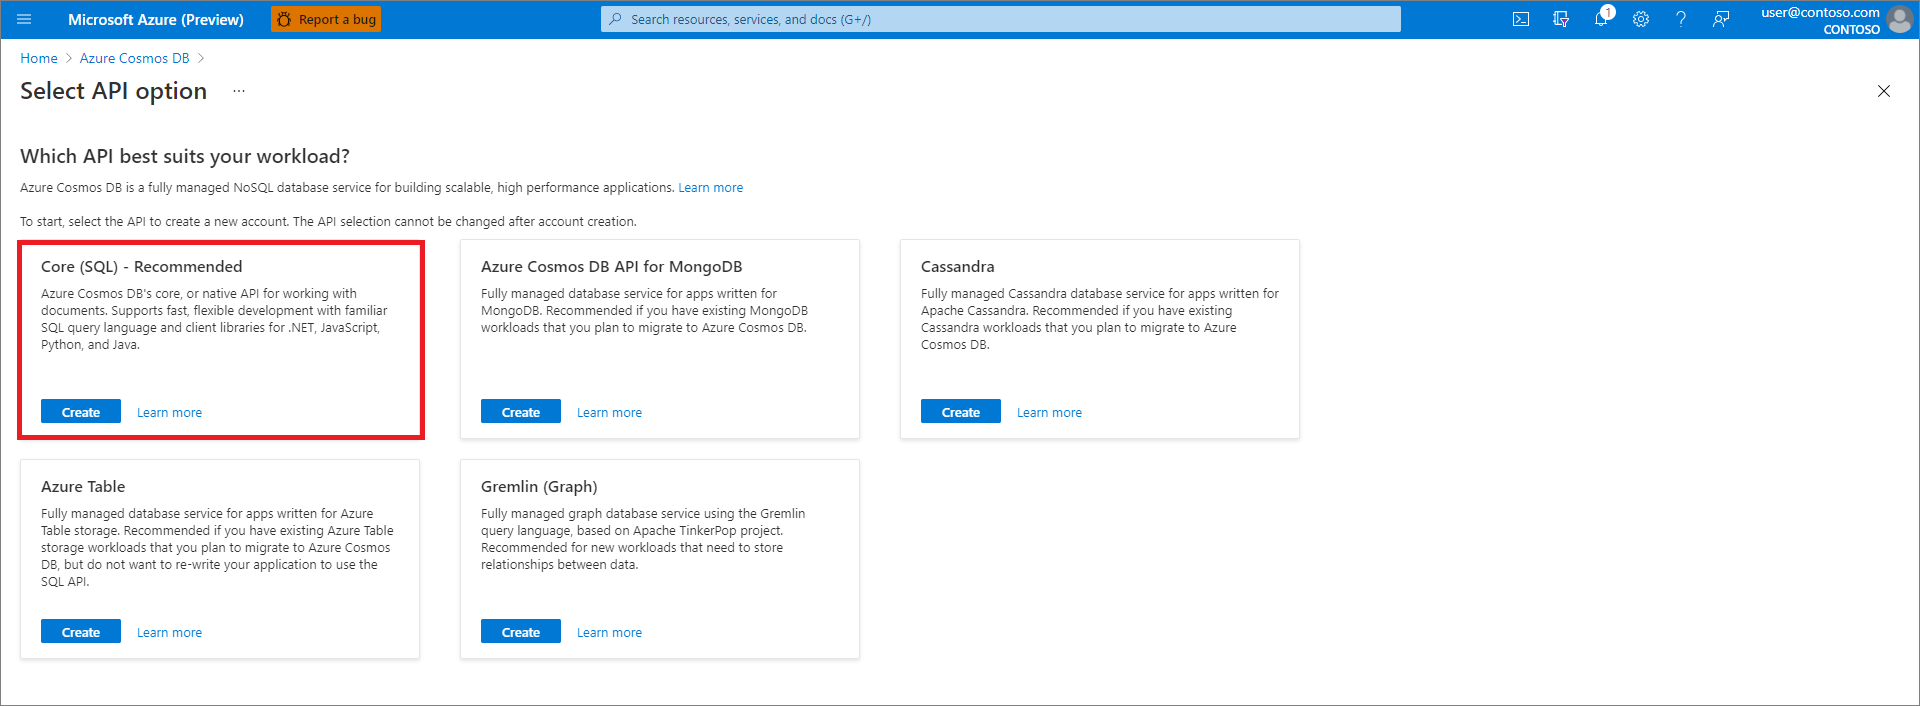
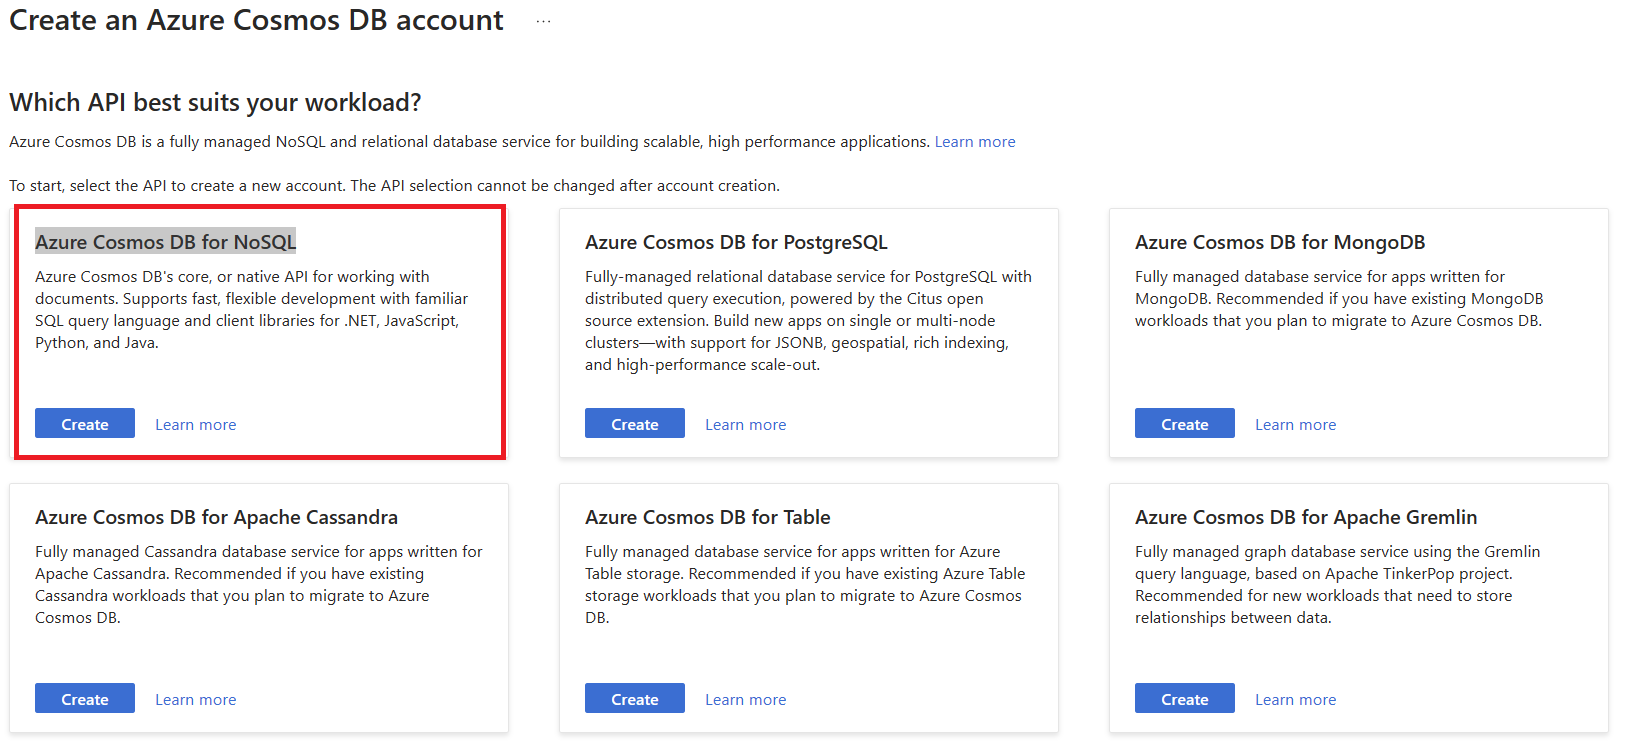
Update Images and Docs - Entra ID Rebranding Effort

diff --git a/articles/java/spring-framework/configure-spring-boot-starter-java-app-with-cosmos-db.md b/articles/java/spring-framework/configure-spring-boot-starter-java-app-with-cosmos-db.md
@@ -27,7 +27,7 @@ Use the following steps to create an Azure Cosmos DB instance:
 
    :::image type="content" source="media/configure-spring-boot-starter-java-app-with-cosmos-db/AZ02.png" alt-text="Screenshot of the Azure portal showing 'Create a resource' page with search box highlighted and containing text 'Azure Cosmos DB'." lightbox="media/configure-spring-boot-starter-java-app-with-cosmos-db/AZ02.png":::
 
-1. On the **Select API option** screen, select **Core (SQL)**.
+1. On the next screen, select **Azure Cosmos DB for NoSQL**.
 
    :::image type="content" source="media/configure-spring-boot-starter-java-app-with-cosmos-db/AZ02-01.png" alt-text="Screenshot of the Azure portal showing 'Select API option' page with 'Core SQL' option highlighted." lightbox="media/configure-spring-boot-starter-java-app-with-cosmos-db/AZ02-01.png":::
 
@@ -36,8 +36,9 @@ Use the following steps to create an Azure Cosmos DB instance:
    * Choose the **Subscription** you want to use for your database.
    * Specify whether to create a new **Resource group** for your database, or choose an existing resource group.
    * Enter a unique **Account Name**, which you use as the URI for your database. For example: *contosoaccounttest*.
-   * Choose **Core (SQL)** for the API.
    * Specify the **Location** for your database.
+   * This is a demo, so choose Apply Free Tier Discount.
+   * The rest of the options can be keep at their default settings.
 
 1. Select **Review + create**, review your specifications, and select **Create**.
 
